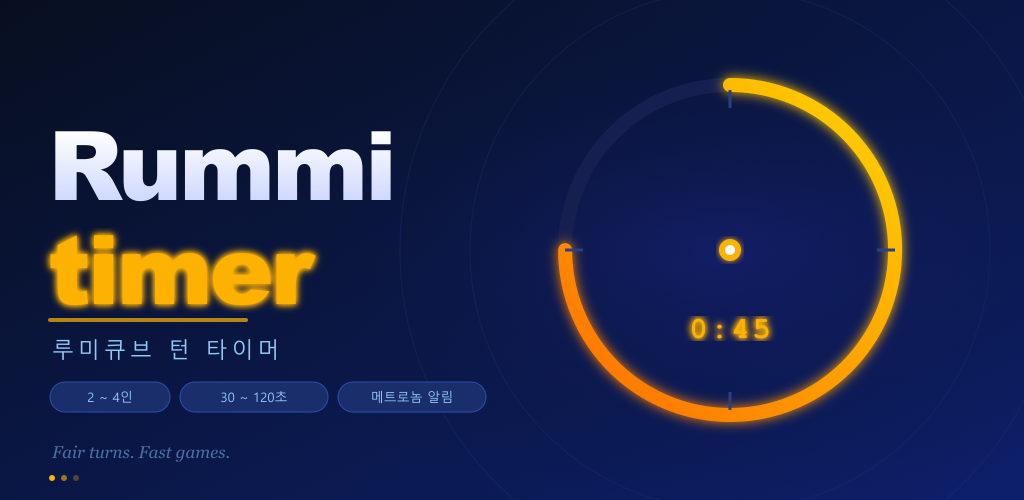
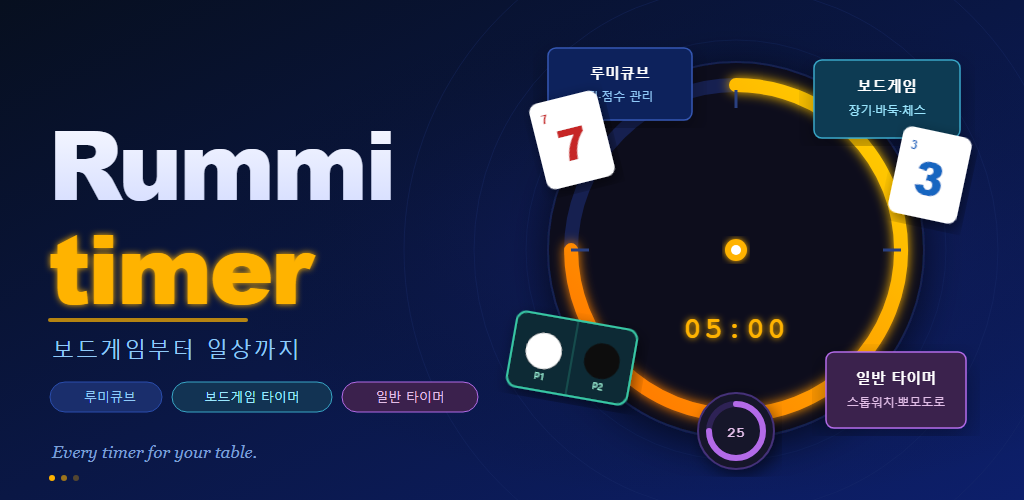
store feature graphic 업데이트

diff --git a/context-notes.md b/context-notes.md
@@ -22,3 +22,15 @@
 ## 미해결
 
 없음. 실기기 테스트는 진행하지 못했으므로(에뮬레이터 미가동), 초읽기/증가시간 로직은 코드 리뷰 수준으로만 검증됨.
+
+---
+
+# 스토어 feature graphic 업데이트 — 컨텍스트 노트
+
+## 결정 사항
+
+- 기존 이미지는 "루미큐브 턴 타이머" 메시지와 2~4인, 30~120초, 메트로놈 알림 칩으로 루미큐브 전용성이 강함.
+- 현재 핵심 기능은 루미큐브 타이머, 장기·바둑·체스 같은 2인 보드게임 타이머, 일반 타이머·뽀모도로까지 넓어진 상태이므로 스토어 이미지도 범용 타이머 허브처럼 보여야 함.
+- 앱 이름 `Rummitimer`와 기존 어두운 블루 배경, 노란 진행 링은 유지해 브랜드 연속성을 살림.
+- 오른쪽 메인 원형 타이머는 유지하되, 주변에 루미큐브 타일, 2인 보드게임 시계, 일반 타이머 미니 카드를 배치해 기능 확장을 시각적으로 전달함.
+- Google Play 업로드용 실제 이미지 파일도 필요하므로 `store_assets/feature_graphic.svg`에서 `store_assets/feature_graphic.png`를 1024×500으로 재생성함.

diff --git a/plan.md b/plan.md
@@ -28,3 +28,23 @@
 - `./gradlew assembleDebug` 컴파일 확인
 - 6개 로케일 strings.xml key 개수 일치 확인
 - 장기(byoyomi/increment=0) 동작이 기존과 동일한지 코드 리뷰로 확인
+
+---
+
+# 스토어 feature graphic 업데이트
+
+## 목표
+
+`store_assets/feature_graphic.svg`를 현재 기능 범위에 맞게 갱신한다. 루미큐브 전용 타이머처럼 보이던 이미지를 루미큐브, 보드게임 타이머, 일반 타이머를 모두 포함하는 스토어 feature graphic으로 바꾼다.
+
+## 작업
+
+1. 현재 SVG 구조 확인 후 브랜드 색상과 1024×500 규격 유지
+2. 왼쪽 카피를 "루미큐브 턴 타이머" 중심에서 다목적 타이머 메시지로 변경
+3. 기능 칩을 루미큐브, 보드게임 타이머, 일반 타이머 중심으로 변경
+4. 오른쪽 비주얼에 루미큐브 타일, 2인 보드게임 시계, 일반 타이머 카드를 함께 표현
+
+## 검증
+
+- SVG XML 파싱 확인
+- 변경 diff 확인

diff --git a/checklist.md b/checklist.md
@@ -12,3 +12,14 @@
 - [x] MainActivity.kt — TwoPlayerSetupScreen/TwoPlayerTimerScreen 호출부 업데이트
 - [x] ./gradlew assembleDebug 빌드 확인 (BUILD SUCCESSFUL, 23s)
 - [x] CHANGELOG.md [미커밋]에 항목 추가
+
+## 스토어 feature graphic 업데이트 체크리스트
+
+- [x] 현재 `store_assets/feature_graphic.svg` 구조 확인
+- [x] 추가된 핵심 기능을 반영한 문구와 시각 요소 설계
+- [x] `store_assets/feature_graphic.svg` 갱신
+- [x] `store_assets/feature_graphic.png` 재생성
+- [x] SVG XML 파싱 검증
+- [x] PNG 1024×500 크기 검증
+- [x] 렌더링 이미지 육안 확인
+- [x] 변경 diff 확인
